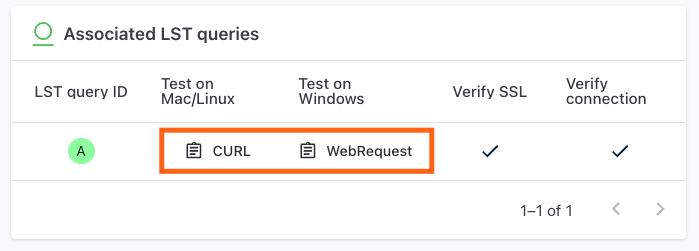
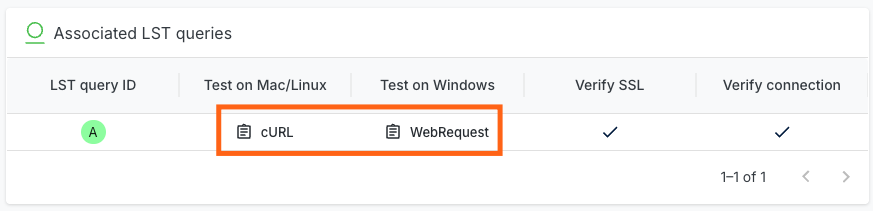
CURL -> cURL
See: https://github.com/moderneinc/moderne-ui/issues/5548

diff --git a/docs/administrator-documentation/moderne-platform/getting-started/admin-pages.md b/docs/administrator-documentation/moderne-platform/getting-started/admin-pages.md
@@ -34,7 +34,7 @@ You can see whether or not an agent is connected to a particular service by scro
   <figcaption>_Connected status_</figcaption>
 </figure>
 
-For Artifactory specifically, you can also get an AQL query to test to make sure you've configured it correctly. You can do this by clicking on the Artifactory card, and then clicking on `CURL` or `WebRequest` underneath the `Test on Mac/Linux` or `Test on Windows` label:
+For Artifactory specifically, you can also get an AQL query to test to make sure you've configured it correctly. You can do this by clicking on the Artifactory card, and then clicking on `cURL` or `WebRequest` underneath the `Test on Mac/Linux` or `Test on Windows` label:
 
 <figure>
   ![](./assets/artifactory-test.png)
